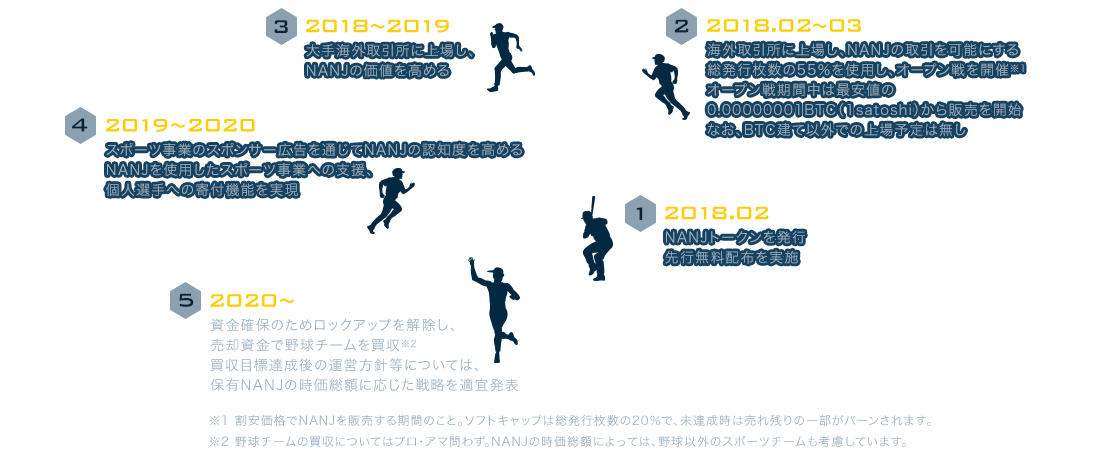
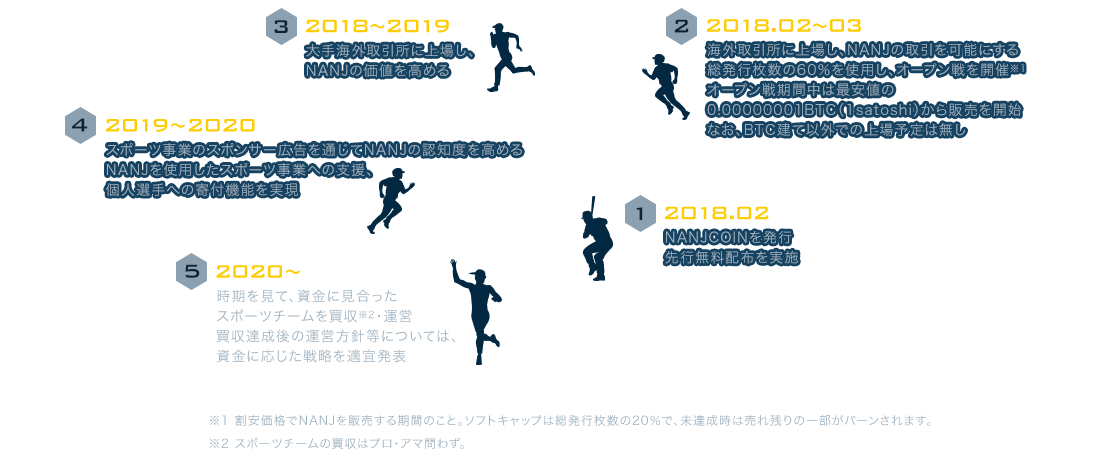
Feature/2018021501 (#4)
* add and change messages.

* no message

* add a tag

* change # target

* changed messages about category.

* 文言変更、及び保持数量変更

* revert typo

* change %

* change % and description

* delete strong

* change words. 広告宣伝 -> マーケティング

* change word regarding advertisementFee.
change words to multi-lang for developmentFee

* change graph position

* change NANJ to NANJCOIN in messages

* change graph position

* revert

* add icon for favicon

* change pic for roadmap

* change pic for roadmap from mr.logo

* add messages

* change text to html

* typo

* change words about token detail

* delete br tag

* change words

* change to https

diff --git a/nanj/public/js/main.js b/nanj/public/js/main.js
@@ -28,8 +28,8 @@ $(document).ready(function () {
     type: "pie",
     data: {
       datasets: [{
-        data: [50, 25, 10, 15],
-        backgroundColor: ["#ff6384", "#ff9f40", "#4bc0c0", "#36a2eb"],
+        data: [60, 15, 15, 10],
+          backgroundColor: ["#ff6384", "#ff9f40", "#4bc0c0", "#36a2eb"],
         borderColor: "#0a2539"
       }],
     },

diff --git a/nanj/resources/lang/ja/message.php b/nanj/resources/lang/ja/message.php
@@ -4,36 +4,36 @@
  */
 return [
     'coinName' => 'NANJ COIN',
-    'description' => 'なんJ民によるなんJ民のための仮想通貨NANJ',
+    'description' => 'なんJ民によるなんJ民のための仮想通貨NANJCOIN',
     'top' => 'TOP',
-    'about' => '概要',
-    'roadMap' => 'ロードマップ',
-    'whitePaper' => 'ホワイトペーパー',
-    'wallet' => 'ウォレット',
-    'exchanges' => '両替',
-    'community' => 'コミュニティ',
-    'whatIsNanJ' => 'NANJとは？',
+    'about' => 'ABOUT',
+    'roadMap' => 'ROADMAP',
+    'whitePaper' => 'WHITEPAPER',
+    'wallet' => 'WALLET',
+    'exchanges' => 'EXCHANGES',
+    'community' => 'COMMUNITY',
+    'whatIsNanJ' => 'NANJCOINとは？',
     'whatIsNanJDescription' =>
-        'NANJは5ch上の「なんでも実況J板」、通称「なんJ」発祥のEthereumトークンです。なんJの有志により開発、運営されています。スポーツ大好き（特に野球）なんJ民が作り上げた日本国産『NANJ』は、世界的にも珍しいスポーツに特化したEthereumトークンです。日本のネットカルチャーにおいて多大なる影響力を持つなんJコミュニティのバックアップのもと、将来的にNANJは様々なスポーツ関連分野での決済手段や、選手やチームに対する寄付の手段として役割を果たす予定です。2018年1月末より無料配布期間を経たのちに海外取引所に上場、その後オープン戦（プレセール）を行います。',
+        'NANJCOINは2ch.sc上の「なんでも実況J板」、通称「なんJ」コミュニティ発祥のEthereumトークンです。有志のなんJ民により開発・運営されています。スポーツ（特に野球）大好きなんJ民が作り上げた日本発の仮想通貨『NANJCOIN』は、世界的にも珍しいスポーツに特化したEthereumトークンです。将来的に、様々なスポーツ分野での決済手段や、選手やチームに対する寄付の手段としての活用を目指しています。2018年2月には無料配布イベントを行いその後海外取引所に上場、オープン戦（プレセール）を行う予定です。<br>※ NANJCOINはファンコミュニティ発祥であり、2ch.sc運営及び5ch運営等との関係は一切ございません。',
     'whatIsNanJDescription2' =>
-        'NANJはスポーツをもっと楽しむというテーマのもと、スポーツに関連する決済手段として提携先を拡大していきます。NANJを使えば普通に買い物をするよりもお得になったり、特別な特典があったりといった状況を実現します。また、資金繰りに困るスポーツ選手や団体、例えば国内で支持層の少ないスポーツや地域のスポーツクラブなどへの寄付が手軽にできるようなシステムとも連携します。（Stage3以降）また、NANJはコミュニティ内でのvote機能の投票権利としても活用される予定です。将来的にはこのvote機能を使って実際のスポーツチームの運営等も行える世界を目指します。',
-
+        'NANJCOINはERC223規格に準拠した日本初のEthereumトークンです。スポーツをもっと楽しむというテーマのもと、スポーツに関連する決済手段として提携先を拡大していきます。普通に買い物をするよりもお得になったり、特典があったりといった状況を実現します。また、資金繰りに困るスポーツ選手や団体、例えば国内で支持層の少ないスポーツや地域のスポーツクラブなどへの寄付が手軽にできるようなシステムを構築します。（Stage3以降）また、コミュニティ内でのvote機能の投票権利としても活用される予定です。将来的にはこのvote機能を使って実際のスポーツチームの運営等も行える世界を目指します。',
     'tokenDetail' => 'トークンの詳細',
     'tokenAssign' => 'トークンの割当',
-    'tokenName' => 'トークン名： NANJ',
+    'tokenName' => 'トークン名： NANJCOIN',
     'tokenSymbol' => 'トークンシンボル： NANJ',
     'issueNumber' => '発行枚数： 300億',
-    'contractAddress' => 'コントラクトアドレス ： 0x751537d0e0189c24fd7e0e4dab4b83d90f926a87',
+    'contractAddress' => 'コントラクトアドレス ：<br> 0xFFE02ee4C69eDf1b340fCaD64fbd6b37a7b9e265',
     'numberOfDigits' => '桁数 ： 8',
     'comingSoon' => 'しばらくお待ちください。',
     'preSeason' => 'オープン戦',
     'operation' => '運営チーム',
-    'advertisementFee' => '広告宣伝活動費',
+    'developmentFee' => '開発費',
+    'advertisementFee' => 'マーケティング費',
     'nanjMean' => '<strong>N</strong>EXT-GENERATION <strong>A</strong>THLETE <strong>N</strong>ETWORK <strong>J</strong>OINT',
     'nanjMean2' => '<strong>E</strong>THEREUM <strong>E</strong>RC223 <strong>T</strong>OKEN <strong>F</strong>ULLY <strong>C</strong>OMPATIBLE <strong>W</strong>ITH <strong>E</strong>RC20 <strong>T</strong>OKEN <strong>S</strong>TANDARD',
     'assignDescription' =>
-        '今までの草コインは「運営チーム」の所持割合が不透明なものが多く、過半数を所持しているようなものが大半でした。そこでNANJは運営チームの所持割合を明確にし、<strong>半数のさらに半数である25％としました。</strong>これによるメリットは透明性の確保、そして仮に運営チームが売り抜けたとしても過半数を超えていないため相場が崩壊しません。もちろん一気に売り抜けて相場を乱すような行為はしないと明言した上で、2重の対策となります。',
+        '今までの仮想通貨は「運営チーム」の所持割合が不透明なもの、過半数を所持しているようなものが大半でした。そこでNANJCOIN運営チームの所持割合を<strong>全体の1割としました。</strong>これによるメリットは透明性の確保、そして仮に運営チームが売り抜けたとしても過半数を超えていない為相場が崩壊しません。もちろん一気に売り抜けて相場を乱すような行為はしないと明言した上で、二重の対策となります。オープン戦では総発行量の60％に当たる180億NANJを販売する予定です。オープン戦終了後、売れ残ったトークンについてBurnやロックアップを実施します。',
     'roadMapDescription' =>
-        'ファンとスポーツの関わり方について、新たなステージを見てみたいとは思いませんか？NANJプロジェクトはプロのマーケティング集団監修のもと、実現可能なステップを進めながら着実に価値を高め続けます。',
+        'ファンとスポーツの関わり方について、新たなステージを見てみたいとは思いませんか？NANJCOINプロジェクトはプロのマーケティング集団監修のもと、実現可能なステップを進めながら着実に価値を高め続けます。',
 
 ];

diff --git a/nanj/resources/views/welcome.blade.php b/nanj/resources/views/welcome.blade.php
@@ -18,8 +18,8 @@
     <meta name="format-detection" content="telephone=no">
     <meta property="og:title" content="NANJ COIN">
     <meta property="og:type" content="website">
-    <meta property="og:url" content="http://nanjcoin.com">
-    <meta property="og:image" content="http://nanjcoin.com/og_img.jpg">
+    <meta property="og:url" content="https://nanjcoin.com">
+    <meta property="og:image" content="https://nanjcoin.com/img/ogp_img.jpg">
     <meta property="og:site_name" content="NANJ COIN">
     <meta property="og:description" content="仮想通貨NANJCOINのオフィシャルサイトです">
     <meta name="twitter:card" content="summary">
@@ -30,7 +30,7 @@
     <meta name="twitter:image" content="https://pbs.twimg.com/profile_images/953930012725362688/e_1u74_u_400x400.jpg">
     <meta name="google-site-verification" content="HBXkITJ9F1LFI1Ki6nfhnZ8FjpyNLqhg-WoquAj_kIs" />
     <title>{{__('message.coinName')}}</title>
-    <link rel="canonical" href="http://nanjcoin.com/">
+    <link rel="canonical" href="https://nanjcoin.com/">
     <link rel="stylesheet" type="text/css" href="https://fonts.googleapis.com/css?family=Sarpanch">
     <link rel="stylesheet" type="text/css" href="css/style.css">
 </head>
@@ -48,12 +48,12 @@
                     <h1><img src="img/header_img_01.png" alt="NANJ"><span>{{__('message.coinName')}}</span></h1>
                     <ul class="nav d-none d-md-block">
                         <li class="btn_top">{{__('message.top')}}</li>
-                        <li class="btn_nav">{{__('message.about')}}</li>
-                        <li class="btn_nav">{{__('message.roadMap')}}</li>
-                        <li class="btn_nav">{{__('message.whitePaper')}}</li>
-                        <li class="btn_nav">{{__('message.wallet')}}</li>
-                        <li class="btn_nav">{{__('message.exchanges')}}</li>
-                        <li class="btn_nav">{{__('message.community')}}</li>
+                        <li class="btn_nav"><a href="#about">{{__('message.about')}}</a></li>
+                        <li class="btn_nav"><a href="#roadmap">{{__('message.roadMap')}}</a></li>
+                        <li class="btn_nav"><a href="#group01">{{__('message.whitePaper')}}</a></li>
+                        <li class="btn_nav"><a href="#wallet">{{__('message.wallet')}}</a></li>
+                        <li class="btn_nav"><a href="#exchanges">{{__('message.exchanges')}}</a></li>
+                        <li class="btn_nav"><a href="#community">{{__('message.community')}}</a></li>
                     </ul>
                 </div>
                 <div class="col-md-2 col-sm-5 col-3 language">
@@ -66,8 +66,8 @@
                     </p>
                     <ul>
                         {{--<li><a href="/ja/"><span class="text">日本語</span><span class="image"><img src="img/language_img_01.png" alt="日本語"></span></a></li>--}}
-                        {{--<li><a href="/ja/"><span class="text">日本語</span><span class="image"><img src="img/language_img_01.png" alt="日本語"></span></a></li>--}}
-                        {{--<li><a href="/ja/"><span class="text">日本語</span><span class="image"><img src="img/language_img_01.png" alt="日本語"></span></a></li>--}}
+                        {{--<li><a href="/ja/"><span class="text">英語</span><span class="image"><img src="img/language_img_01.png" alt="英語"></span></a></li>--}}
+                        {{--<li><a href="/ja/"><span class="text">中国語</span><span class="image"><img src="img/language_img_01.png" alt="中国語"></span></a></li>--}}
                     </ul>
                 </div>
             </div>
@@ -89,8 +89,8 @@
         <div class="container">
             <div class="row">
                 <div class="col-lg-8 offset-lg-4">
-                    <h2>{{__('message.about')}}</h2>
-                    <p class="p01">{{__('message.whatIsNanJDescription')}}</p>
+                    <h2>{{ __('message.about')}}</h2>
+                    <p class="p01">{!! __('message.whatIsNanJDescription') !!}</p>
                     <div class="row row01">
                         <div class="col-md-6 detail">
                             <h3>{{__('message.tokenDetail')}}</h3>
@@ -102,7 +102,7 @@
                                     <li>{{__('message.issueNumber')}}</li>
                                 </ul>
                             </div>
-                            <p>{{__('message.whatIsNanJDescription2')}}</p>
+                            <p>{!! __('message.whatIsNanJDescription2')!!}</p>
                         </div>
                         <div class="col-md-6 allocation">
                             <h3>{{__('message.tokenAssign')}}</h3>
@@ -113,10 +113,10 @@
                                     </div>
                                     <div class="col-xl-7 offset-xl-0 col-lg-10 offset-lg-1 col-sm-7 offset-sm-0">
                                         <ul>
-                                            <li class="li01">{{__('message.preSeason')}}...50％</li>
-                                            <li class="li02">{{__('message.operation')}}...<strong>25％</strong></li>
-                                            <li class="li03">{{__('message.lockUp')}}...10％</li>
-                                            <li class="li04">{{__('message.tokenName')}}...15％</li>
+                                            <li class="li01">{{__('message.preSeason')}}...60％</li>
+                                            <li class="li02">{{__('message.advertisementFee')}}...15％</li>
+                                            <li class="li03">{{__('message.developmentFee')}}...15％</li>
+                                            <li class="li04">{{__('message.operation')}}...<strong>10％</strong></li>
                                         </ul>
                                     </div>
                                 </div>
@@ -151,7 +151,7 @@
                 <div class="col-lg-4" id="wallet">
                     <h2>{{__('message.wallet')}}</h2>
                     <p><a href="https://www.myetherwallet.com" target="_blank"><img src="img/wallet_btn_01.png" alt="MyEtherWallet"></a></p>
-                    <p>{{__('message.contractAddress')}}<br>{{__('message.tokenSymbol')}}　{{__('message.numberOfDigits')}}</p>
+                    <p>{!! __('message.contractAddress') !!}<br>{{__('message.tokenSymbol')}}　{{__('message.numberOfDigits')}}</p>
                 </div>
                 <div class="col-lg-4" id="exchanges">
                     <h2>{{__('message.exchanges')}}</h2>
